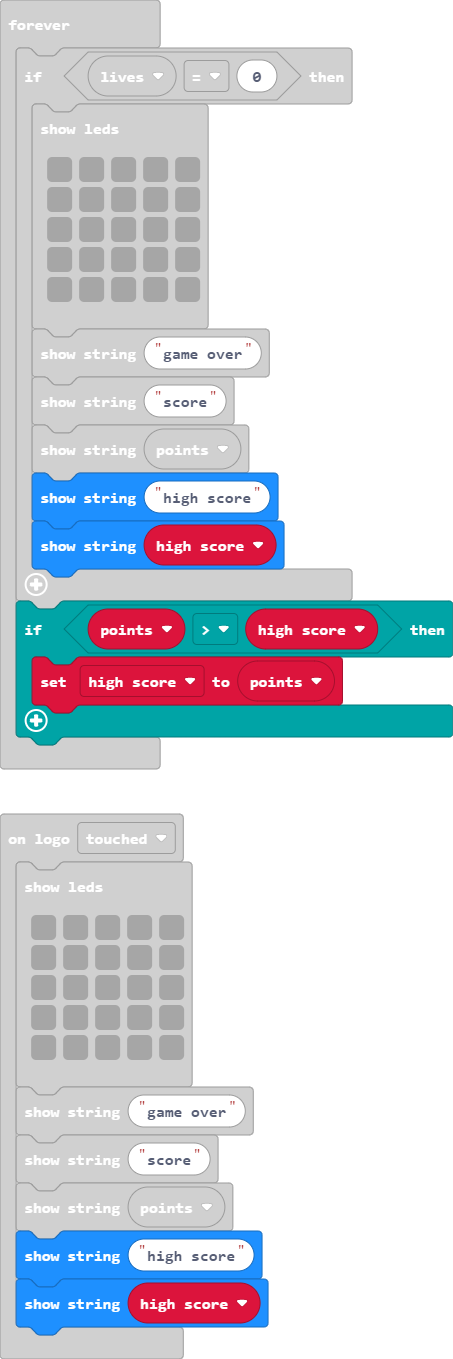
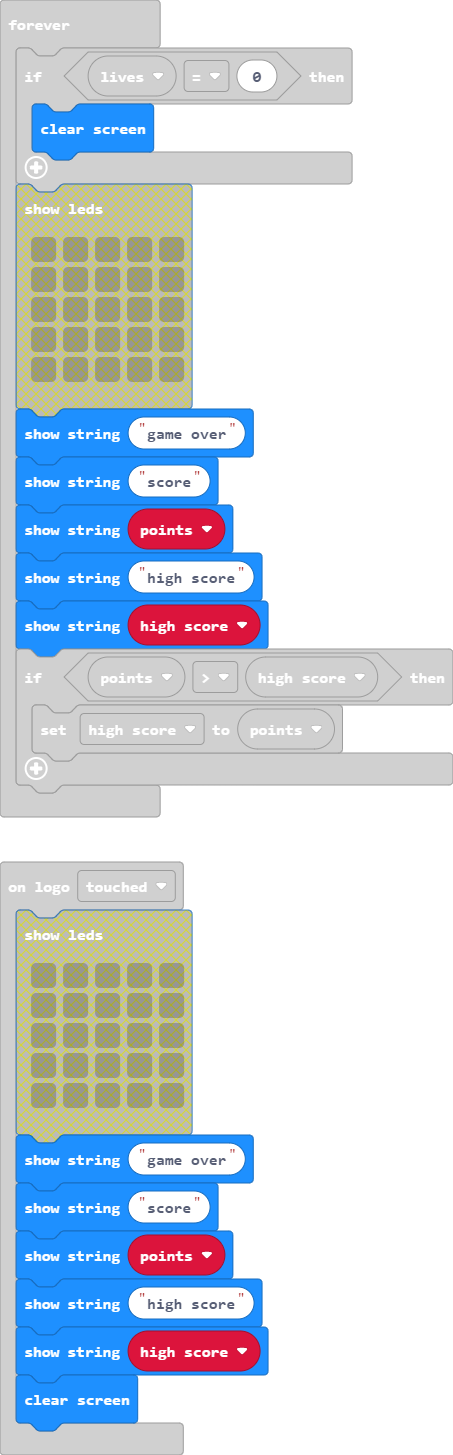
Update main.blocks, main.ts

diff --git a/main.ts b/main.ts
@@ -63,13 +63,7 @@ input.onGesture(Gesture.Shake, function () {
     }
 })
 input.onLogoEvent(TouchButtonEvent.Touched, function () {
-    basic.showLeds(`
-        . . . . .
-        . . . . .
-        . . . . .
-        . . . . .
-        . . . . .
-        `)
+    basic.clearScreen()
     basic.showString("game over")
     basic.showString("score")
     basic.showString("" + (points))
@@ -153,13 +147,7 @@ basic.forever(function () {
 })
 basic.forever(function () {
     if (lives == 0) {
-        basic.showLeds(`
-            . . . . .
-            . . . . .
-            . . . . .
-            . . . . .
-            . . . . .
-            `)
+        basic.clearScreen()
         basic.showString("game over")
         basic.showString("score")
         basic.showString("" + (points))
